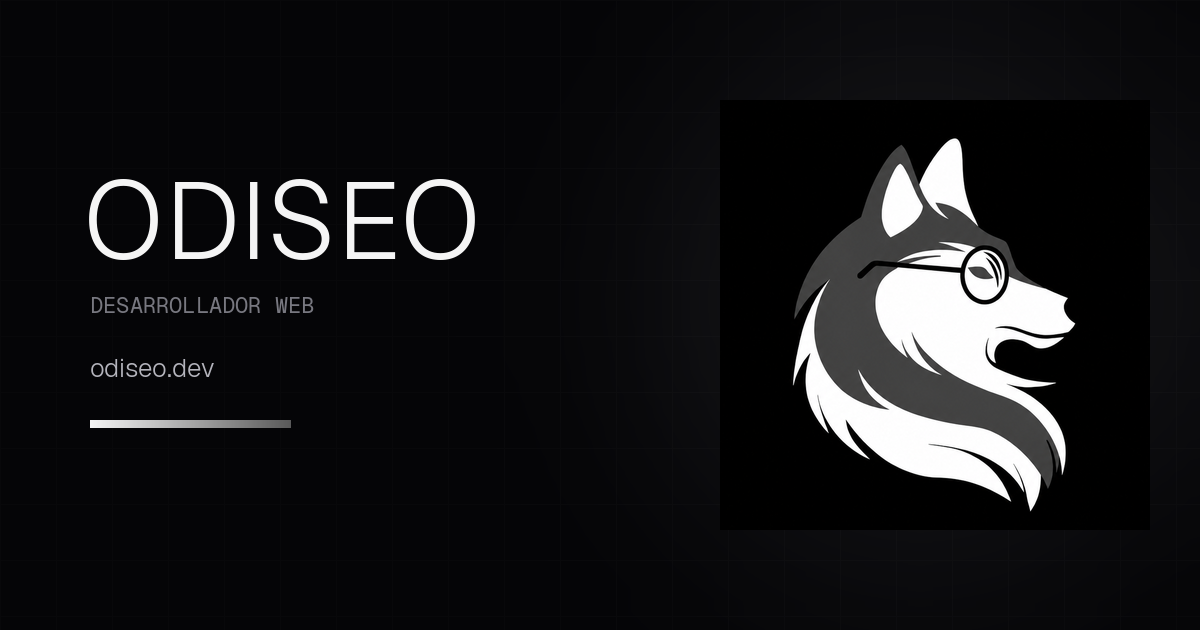
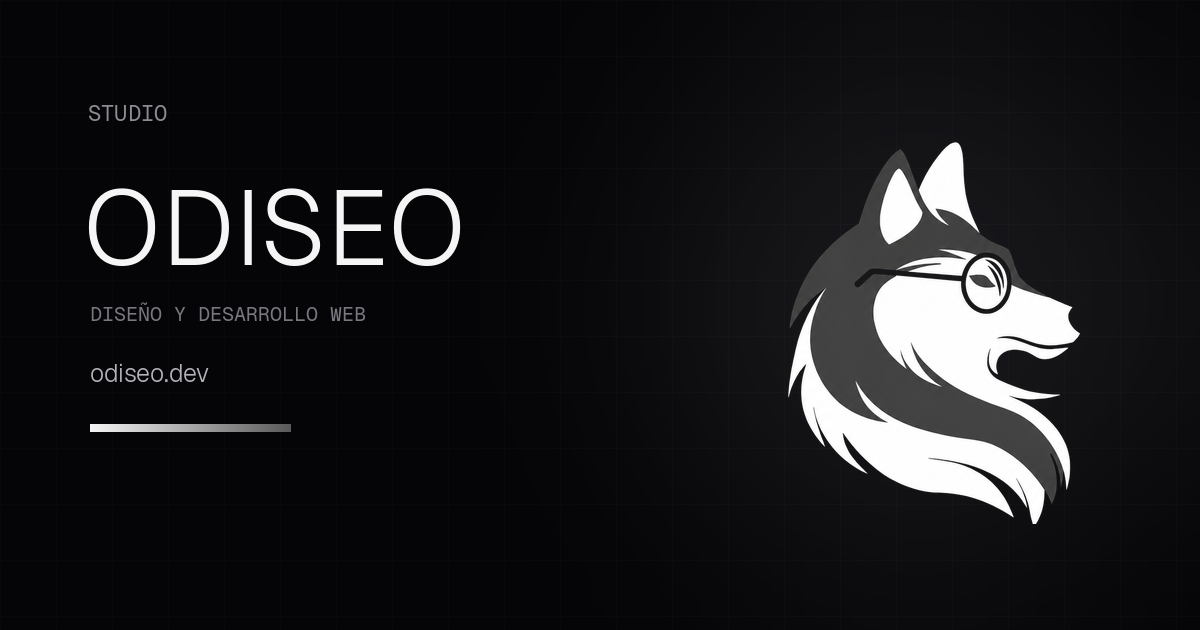
Portafolio visual sin texto

diff --git a/src/components/sections/Projects.tsx b/src/components/sections/Projects.tsx
@@ -2,7 +2,6 @@
 
 import Image from 'next/image';
 import { motion, useReducedMotion } from 'framer-motion';
-import { ArrowUpRight, Github } from 'lucide-react';
 import SectionHeading from '@/components/ui/SectionHeading';
 import { Reveal } from '@/components/ui/Reveal';
 import type { Project } from '@/lib/types';
@@ -62,12 +61,12 @@ function MediaWrapper({
 function ProjectCard({ project, index }: { project: Project; index: number }) {
   return (
     <Reveal delay={(index % 2) * 0.08}>
-      <article className="group flex h-full flex-col overflow-hidden rounded-lg border border-line bg-card transition-all duration-500 ease-out hover:-translate-y-1.5 hover:border-fg/40 hover:shadow-[0_24px_60px_-24px_rgba(0,0,0,0.9)]">
+      <article className="group overflow-hidden rounded-lg border border-line bg-card transition-all duration-500 ease-out hover:-translate-y-1.5 hover:border-fg/40 hover:shadow-[0_24px_60px_-24px_rgba(0,0,0,0.9)]">
         <MediaWrapper project={project}>
           {project.image_url ? (
             <Image
               src={project.image_url}
-              alt={`Vista previa de ${project.title}`}
+              alt={`Sitio web de ${project.title}`}
               fill
               sizes="(min-width: 768px) 50vw, 100vw"
               className="object-cover transition-transform duration-700 ease-out group-hover:scale-[1.06]"
@@ -80,64 +79,24 @@ function ProjectCard({ project, index }: { project: Project; index: number }) {
             </div>
           )}
 
-          {/* Overlay al pasar el cursor */}
+          {/* Velo inferior sutil para legibilidad del nombre */}
           <div
             aria-hidden="true"
-            className="pointer-events-none absolute inset-0 bg-gradient-to-t from-bg/90 via-bg/20 to-transparent opacity-0 transition-opacity duration-500 group-hover:opacity-100"
+            className="pointer-events-none absolute inset-0 bg-gradient-to-t from-bg/85 via-transparent to-transparent opacity-70 transition-opacity duration-500 group-hover:opacity-100"
           />
-          {project.project_url && (
-            <span className="pointer-events-none absolute bottom-4 left-4 inline-flex translate-y-3 items-center gap-2 rounded-full border border-fg/30 bg-bg/70 px-4 py-2 font-mono text-[11px] uppercase tracking-[0.2em] text-fg opacity-0 backdrop-blur transition-all duration-500 ease-out group-hover:translate-y-0 group-hover:opacity-100">
-              Visitar sitio ↗
-            </span>
-          )}
-        </MediaWrapper>
 
-        <div className="flex flex-1 flex-col p-6 md:p-7">
-          <h3 className="flex items-start justify-between gap-4 font-display text-xl font-light tracking-tight text-fg">
-            {project.title}
-            <ArrowUpRight
-              size={18}
-              aria-hidden="true"
-              className="mt-1 shrink-0 text-muted transition-all duration-300 ease-out group-hover:-translate-y-0.5 group-hover:translate-x-0.5 group-hover:text-accent"
-            />
-          </h3>
-          {project.description && (
-            <p className="mt-3 text-sm leading-relaxed text-muted">{project.description}</p>
-          )}
-          {project.tags && project.tags.length > 0 && (
-            <ul className="mt-5 flex flex-wrap gap-x-4 gap-y-1.5">
-              {project.tags.map((tag) => (
-                <li key={tag} className="font-mono text-[11px] uppercase tracking-[0.18em] text-muted/80">
-                  {tag}
-                </li>
-              ))}
-            </ul>
-          )}
-          <div className="mt-auto flex items-center gap-5 pt-6">
+          {/* Nombre del proyecto — lo único que el cliente necesita leer */}
+          <div className="pointer-events-none absolute bottom-0 left-0 right-0 flex items-end justify-between gap-4 p-5 md:p-6">
+            <h3 className="font-display text-lg font-light tracking-tight text-fg md:text-xl">
+              {project.title}
+            </h3>
             {project.project_url && (
-              <a
-                href={project.project_url}
-                target="_blank"
-                rel="noopener noreferrer"
-                className="group/link inline-flex items-center gap-1.5 text-sm text-fg transition-colors hover:text-accent"
-              >
-                Ver proyecto
-                <ArrowUpRight size={14} aria-hidden="true" />
-              </a>
-            )}
-            {project.repo_url && (
-              <a
-                href={project.repo_url}
-                target="_blank"
-                rel="noopener noreferrer"
-                aria-label={`Código de ${project.title} en GitHub`}
-                className="text-muted transition-colors hover:text-fg"
-              >
-                <Github size={16} aria-hidden="true" />
-              </a>
+              <span className="inline-flex translate-y-2 items-center gap-2 rounded-full border border-fg/30 bg-bg/70 px-4 py-2 font-mono text-[10px] uppercase tracking-[0.2em] text-fg opacity-0 backdrop-blur transition-all duration-500 ease-out group-hover:translate-y-0 group-hover:opacity-100">
+                Visitar ↗
+              </span>
             )}
           </div>
-        </div>
+        </MediaWrapper>
       </article>
     </Reveal>
   );

diff --git a/src/lib/defaults.ts b/src/lib/defaults.ts
@@ -10,7 +10,7 @@ export const DEFAULT_CONTENT: SiteContent = {
   hero: {
     roles: ['Código', 'Diseño', 'Experiencias'],
     description:
-      'Desarrollo productos digitales con un enfoque en la simplicidad, el rendimiento y la atención al detalle.',
+      'Somos un estudio de diseño y desarrollo web. Creamos productos digitales con enfoque en la simplicidad, el rendimiento y la atención al detalle.',
     photoUrl: '',
     cvUrl: '',
     availability: {
@@ -19,12 +19,12 @@ export const DEFAULT_CONTENT: SiteContent = {
     },
   },
   about: {
-    title: 'Detrás de ODISEO',
+    title: 'El estudio',
     paragraphs: [
-      'Hola, soy Alexis.',
-      'Soy desarrollador web y el creador de ODISEO, una marca personal enfocada en el desarrollo de productos digitales modernos.',
-      'Me apasiona construir experiencias intuitivas, interfaces limpias y soluciones que combinen diseño, rendimiento y escalabilidad.',
-      'Actualmente continúo profundizando en el ecosistema moderno de desarrollo web y busco crear productos que las personas realmente disfruten utilizar.',
+      'ODISEO es un estudio de diseño y desarrollo web con base en Orizaba, Veracruz.',
+      'Creamos sitios y plataformas digitales para negocios que quieren destacar en línea: desde páginas corporativas hasta catálogos con pedidos y sistemas a la medida.',
+      'Nos apasiona construir experiencias intuitivas, interfaces limpias y soluciones que combinan diseño, rendimiento y escalabilidad.',
+      'Cada proyecto se trabaja de forma directa y cercana, con la calidad y el cuidado que tu marca merece.',
     ],
   },
   skills: {
@@ -39,7 +39,7 @@ export const DEFAULT_CONTENT: SiteContent = {
     ],
   },
   services: {
-    title: 'Soluciones que ofrezco',
+    title: 'Nuestras soluciones',
     items: [
       {
         title: 'Diseño web a la medida',
@@ -51,16 +51,16 @@ export const DEFAULT_CONTENT: SiteContent = {
       },
       {
         title: 'Desarrollo full stack',
-        text: 'Del diseño visual al desarrollo funcional: paneles auto-administrables, bases de datos y plataformas a la medida con Next.js y Supabase, para que gestiones tu sitio sin depender de nadie.',
+        text: 'Del diseño visual al desarrollo funcional: paneles auto-administrables, bases de datos y plataformas a la medida con Next.js y Supabase, para que tu equipo gestione el sitio sin depender de nadie.',
       },
       {
         title: 'Mantenimiento y soporte',
-        text: 'No desaparezco después de la entrega. Actualizaciones de contenido, monitoreo, seguridad y soporte técnico para que tu sitio esté siempre al día y en línea.',
+        text: 'No desaparecemos después de la entrega. Actualizaciones de contenido, monitoreo, seguridad y soporte técnico para que tu sitio esté siempre al día y en línea.',
       },
     ],
   },
   process: {
-    title: 'Cómo trabajo',
+    title: 'Cómo trabajamos',
     steps: [
       {
         title: 'Descubrimiento',
@@ -76,7 +76,7 @@ export const DEFAULT_CONTENT: SiteContent = {
       },
       {
         title: 'Lanzamiento',
-        text: 'Despliego, mido y refino. Un producto no termina al publicarse: evoluciona con datos y retroalimentación real.',
+        text: 'Desplegamos, medimos y refinamos. Un producto no termina al publicarse: evoluciona con datos y retroalimentación real.',
       },
     ],
   },
@@ -88,7 +88,7 @@ export const DEFAULT_CONTENT: SiteContent = {
   },
   contact: {
     title: 'Trabajemos juntos.',
-    text: 'Si tienes una idea, una oportunidad o simplemente quieres conversar sobre tecnología, estaré encantado de hablar contigo.',
+    text: 'Si tienes una idea o un proyecto en mente, estaremos encantados de hablar contigo.',
     email: 'Developerlk23@gmail.com',
     whatsappUrl: 'https://wa.me/message/HSPNSWYWNGWBN1',
     location: 'Orizaba, Veracruz — México',
@@ -157,7 +157,7 @@ export const DEFAULT_CONTENT: SiteContent = {
       role: 'Puesto — Empresa',
       avatar_url: null,
       quote:
-        'Alexis entendió exactamente lo que necesitábamos y lo llevó más allá. El resultado fue un sitio rápido, cuidado y fácil de administrar. Volvería a trabajar con él sin dudarlo.',
+        'ODISEO entendió exactamente lo que necesitábamos y lo llevó más allá. El resultado fue un sitio rápido, cuidado y fácil de administrar. Volveríamos a trabajar con ellos sin dudarlo.',
       approved: true,
       sort_order: 1,
       created_at: '',

diff --git a/src/app/layout.tsx b/src/app/layout.tsx
@@ -11,12 +11,12 @@ const siteUrl = process.env.NEXT_PUBLIC_SITE_URL ?? 'http://localhost:3000';
 export const metadata: Metadata = {
   metadataBase: new URL(siteUrl),
   title: {
-    default: 'ODISEO — Developer · Designer · Creator',
+    default: 'ODISEO Studio — Diseño y desarrollo web',
     template: '%s — ODISEO',
   },
   description:
-    'Desarrollo productos digitales con un enfoque en la simplicidad, el rendimiento y la atención al detalle.',
-  keywords: ['ODISEO', 'desarrollador web', 'diseñador de interfaces', 'portafolio', 'Next.js'],
+    'Estudio de diseño y desarrollo web en Orizaba, Veracruz. Creamos sitios modernos, rápidos y auto-administrables para negocios que quieren destacar en línea.',
+  keywords: ['ODISEO', 'estudio de diseño y desarrollo web', 'diseñador de interfaces', 'portafolio', 'Next.js'],
   authors: [{ name: 'Alexis — ODISEO' }],
   alternates: { canonical: '/' },
   openGraph: {
@@ -24,14 +24,14 @@ export const metadata: Metadata = {
     locale: 'es_MX',
     url: siteUrl,
     siteName: 'ODISEO',
-    title: 'ODISEO — Developer · Designer · Creator',
+    title: 'ODISEO Studio — Diseño y desarrollo web',
     description:
       'Desarrollo productos digitales con un enfoque en la simplicidad, el rendimiento y la atención al detalle.',
     images: [{ url: '/og.png', width: 1200, height: 630, alt: 'ODISEO' }],
   },
   twitter: {
     card: 'summary_large_image',
-    title: 'ODISEO — Developer · Designer · Creator',
+    title: 'ODISEO Studio — Diseño y desarrollo web',
     description:
       'Desarrollo productos digitales con un enfoque en la simplicidad, el rendimiento y la atención al detalle.',
     images: ['/og.png'],

diff --git a/src/components/sections/BrandBand.tsx b/src/components/sections/BrandBand.tsx
@@ -6,15 +6,15 @@ import { Reveal } from '@/components/ui/Reveal';
 const PILLARS = [
   {
     title: 'Lo que tu marca merece',
-    text: 'Sé lo importante que es tu marca para ti y para tus clientes. Por eso entrego sitios con la calidad que tu marca merece, cuidados hasta el último detalle.',
+    text: 'Sabemos lo importante que es tu marca para ti y para tus clientes. Por eso entregamos sitios con la calidad que tu marca merece, cuidados hasta el último detalle.',
   },
   {
-    title: 'Trato directo, sin intermediarios',
-    text: 'Trabajas directamente conmigo de principio a fin. Sin ejecutivos de cuenta ni mensajes perdidos: la persona que diseña tu sitio es la misma que te responde.',
+    title: 'Trato directo y cercano',
+    text: 'Trabajas directamente con el estudio de principio a fin. Sin ejecutivos de cuenta ni mensajes perdidos: quien diseña tu sitio es quien te responde.',
   },
   {
     title: 'Mucho más que un sitio web',
-    text: 'No creo sitios aburridos y tradicionales. Creo experiencias que conectan tu marca con tu audiencia y convierten visitas en clientes.',
+    text: 'No creamos sitios aburridos y tradicionales. Creamos experiencias que conectan tu marca con tu audiencia y convierten visitas en clientes.',
   },
 ];
 

diff --git a/src/components/sections/Social.tsx b/src/components/sections/Social.tsx
@@ -11,6 +11,8 @@ interface SocialLink {
 }
 
 export function buildSocialLinks(socials: SocialsContent): SocialLink[] {
+  // ODISEO es un estudio: el perfil personal de GitHub queda fuera de la marca.
+  const isGithub = (v: string) => /github/i.test(v);
   const links: SocialLink[] = [];
   if (socials.github) {
     links.push({
@@ -44,7 +46,7 @@ export function buildSocialLinks(socials: SocialsContent): SocialLink[] {
       icon: <Mail size={19} aria-hidden="true" />,
     });
   }
-  return links;
+  return links.filter((l) => !isGithub(l.label) && !isGithub(l.href));
 }
 
 export default function Social({ socials }: { socials: SocialsContent }) {

diff --git a/src/components/ui/ConsoleSignature.tsx b/src/components/ui/ConsoleSignature.tsx
@@ -7,7 +7,7 @@ export default function ConsoleSignature() {
   useEffect(() => {
     // eslint-disable-next-line no-console
     console.log(
-      '%c ODISEO %c Diseñado y desarrollado por Alexis · Next.js + Supabase \n%c ¿Curioseando el código? Escríbeme: Developerlk23@gmail.com',
+      '%c ODISEO %c Diseñado y desarrollado por ODISEO Studio · Next.js + Supabase \n%c ¿Curioseando el código? Escríbeme: Developerlk23@gmail.com',
       'background:linear-gradient(92deg,#ffffff,#a3a3a3);color:#090909;font-weight:700;padding:4px 8px;',
       'background:#171717;color:#F5F5F5;padding:4px 8px;',
       'color:#A3A3A3;padding:6px 0;'

diff --git a/src/components/sections/About.tsx b/src/components/sections/About.tsx
@@ -14,7 +14,7 @@ export default function About({ data }: { data: AboutContent }) {
         {'</>'}
       </span>
       <div className="wrap">
-        <SectionHeading eyebrow="Sobre mí" title={data.title} />
+        <SectionHeading eyebrow="Nosotros" title={data.title} />
 
         <div className="grid gap-12 md:grid-cols-[1fr,1.7fr]">
           <Reveal delay={0.1}>

diff --git a/src/app/page.tsx b/src/app/page.tsx
@@ -31,7 +31,7 @@ export default async function Home() {
     url: siteUrl,
     jobTitle: 'Web Developer & UI Designer',
     description: content.hero.description,
-    sameAs: [content.socials.github, content.socials.linkedin, content.socials.instagram].filter(
+    sameAs: [content.socials.linkedin, content.socials.instagram].filter(
       Boolean,
     ),
   };

diff --git a/src/components/layout/Navbar.tsx b/src/components/layout/Navbar.tsx
@@ -10,7 +10,7 @@ const LINKS = [
   { label: 'Inicio', href: '#inicio' },
   { label: 'Proyectos', href: '#proyectos' },
   { label: 'Servicios', href: '#servicios' },
-  { label: 'Sobre mí', href: '#sobre-mi' },
+  { label: 'Nosotros', href: '#sobre-mi' },
   { label: 'Skills', href: '#skills' },
   { label: 'Contacto', href: '#contacto' },
 ];

diff --git a/src/components/sections/Hero.tsx b/src/components/sections/Hero.tsx
@@ -65,7 +65,7 @@ export default function Hero({ data }: { data: HeroContent }) {
             {...fadeUp(0.1)}
             className="mb-6 font-mono text-[11px] uppercase tracking-[0.4em] text-fg/50"
           >
-            Desarrollador Web
+            Estudio de diseño y desarrollo web
           </motion.p>
 
           <motion.h1
